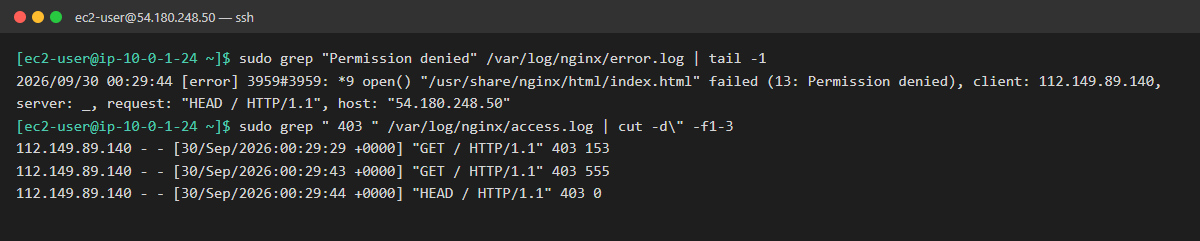
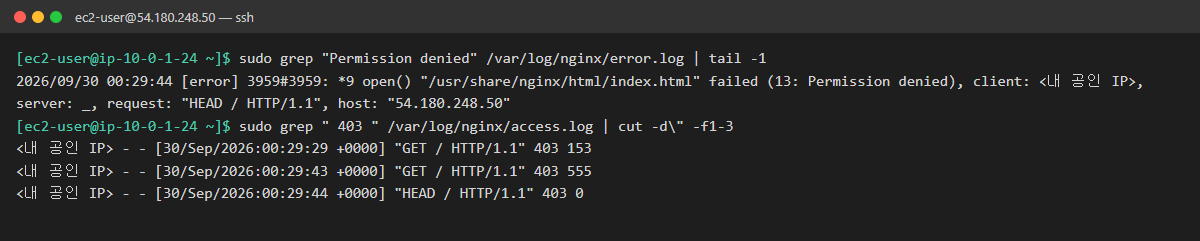
Add troubleshooting scenario 5 and mask public IP in images
- 05: security group drift made outside Terraform, fixed with plan/apply
- Trace change via CloudTrail userAgent; note root access key issue
- Re-render 03 log image with public IP masked
- Update READMEs with scenario 5 and IAM improvement item

Changed region(s): [[0.0, 0.668, 0.5242, 0.8423], [0.0, 0.5809, 0.5242, 0.639], [0.8633, 0.2905, 0.9867, 0.3776]]

diff --git a/troubleshooting/05-network.md b/troubleshooting/05-network.md
@@ -1,0 +1,202 @@
+# 05. 서버는 정상인데 외부에서 접속 불가
+
+| 항목 | 내용 |
+|---|---|
+| 대상 서버 | `linux-ec2` (43.201.85.42, Amazon Linux 2023) |
+| 발생 시각 | 2026-09-30 12:48 KST (CloudTrail 기록 기준) |
+| 영향 | 외부에서 웹사이트 접속 불가 (타임아웃) |
+| 상태 | 🟢 해결 (2026-09-30 14:56 KST, Terraform으로 복구, CloudTrail 기록 기준) |
+
+## 상황
+
+> 고객센터 문의:
+> "홈페이지가 한참 로딩만 하다가 결국 안 열려요."
+>
+> 서버 담당자 답변:
+> "서버 들어가 봤는데 nginx 잘 떠 있고, 서버 안에서 접속하면 200 나와요. **서버는 아무 문제 없어요.**"
+>
+> 보안팀 공지 (오늘 오전):
+> "금일 클라우드 보안 점검을 진행했습니다. 불필요하게 열린 접근 권한을 일부 정리했습니다."
+
+## 증상
+
+**내 PC: 응답 없이 시간 초과**
+
+![외부 접속 타임아웃](images/05-net-local.png)
+
+**서버 안: nginx 정상**
+
+![서버 내부 정상](images/05-net-server.png)
+
+## 목표
+
+- [x] 문제 위치 좁히기: 서버 **안**의 문제인지, 서버 **밖**(네트워크)의 문제인지 증거로 판단
+- [x] 원인 찾기: 무엇이 언제 바뀌었는지
+- [x] 서비스 정상화: 내 PC에서 http://43.201.85.42 가 열려야 함
+- [x] **Terraform으로 복구하기:** AWS 콘솔에서 손으로 되돌리지 말고, 코드와 실제 상태의 차이(drift)를 확인한 뒤 Terraform으로 복구. 콘솔에서 고치면 절반만 성공
+- [x] 재발 방지 정리 (심화)
+
+## 힌트
+
+<details>
+<summary>힌트 1: 2번 장애 때와 에러가 다르다</summary>
+
+2번 시나리오의 캡처(`images/02-config-local.png`)와 비교해 보세요. 그때도 접속이 안 됐지만 에러 메시지와 **실패까지 걸린 시간**이 다릅니다.
+- 금방 실패: 서버까지는 도착했는데 **받아줄 프로그램이 없음**
+- 한참 기다리다 실패: 요청이 **중간 어딘가에서 사라짐**
+</details>
+
+<details>
+<summary>힌트 2: 요청이 지나가는 길 그려보기</summary>
+
+```
+내 PC → 인터넷 → IGW → 보안 그룹 → EC2(리눅스) → nginx
+```
+서버 안에서 `curl localhost`가 되면 **EC2 → nginx** 구간은 정상입니다. SSH(22번)도 되는데 HTTP(80번)만 안 된다면, **포트별로 통과 여부를 정하는 곳**은 어디일까요?
+</details>
+
+<details>
+<summary>힌트 3: 보안 그룹 확인</summary>
+
+AWS 콘솔 → EC2 → 보안 그룹 → `linux-sg` → 인바운드 규칙을 보세요. 또는 CLI로 확인합니다.
+```bash
+aws ec2 describe-security-groups --region ap-northeast-2 --filters Name=group-name,Values=linux-sg --query "SecurityGroups[0].IpPermissions"
+```
+Terraform 코드(`security_group.tf`)와 비교해 보세요.
+</details>
+
+<details>
+<summary>힌트 4: Terraform에게 물어보기</summary>
+
+Terraform은 **코드에 적힌 상태**와 **AWS의 실제 상태**를 비교할 수 있습니다. 아무것도 바꾸지 않고 비교만 하는 명령이 있습니다. 그 결과에 `~`(변경)가 나오면 누군가 Terraform 밖에서 바꿨다는 뜻입니다.
+</details>
+
+<details>
+<summary>힌트 5: 누가 바꿨나 (심화)</summary>
+
+AWS의 모든 API 호출은 **CloudTrail**에 기록됩니다. 콘솔 → CloudTrail → 이벤트 기록에서 이벤트 이름 `RevokeSecurityGroupIngress`로 필터링해 보세요.
+</details>
+
+## 생각해볼 점
+
+- `Connection timed out`과 `Connection refused`는 각각 어느 구간의 문제를 뜻할까요?
+- 보안 그룹에서 막힌 요청에는 왜 "거부" 응답이 오지 않고 타임아웃이 날까요?
+- 콘솔에서 규칙을 손으로 되돌리면 당장은 해결됩니다. 그런데 왜 Terraform으로 복구해야 할까요? 반대로 보안팀의 변경이 **옳은 결정**이었다면 어떻게 해야 할까요?
+
+## 해결 기록
+
+> 캡처 출처
+> - 1단계: 조사하면서 직접 찍은 화면입니다.
+> - 2단계 tcpdump: 장애 중에는 패킷이 **하나도 찍히지 않았습니다.** 그 화면은 남기지 못해서, 비교용으로 **복구 후** 패킷이 도착하는 화면을 찍었습니다.
+> - 3단계 plan: 장애 중에 실제로 실행한 출력입니다. 변경과 관계없는 줄 일부는 생략했습니다.
+> - 4~5단계: 실제 출력을 보기 좋게 정리했습니다.
+> - 공개 저장소라서 내 공인 IP는 `<내 공인 IP>`로 가렸습니다.
+
+### 작성자 기록
+
+| 항목 | 내용 |
+|---|---|
+| **원인** | 보안 점검 중 `linux-sg`의 HTTP(80) 인바운드 규칙이 Terraform 밖(AWS CLI)에서 `0.0.0.0/0` → `203.0.113.0/24`(사무실 대역)으로 바뀜. 외부 요청이 보안 그룹에서 버려져서 타임아웃 발생 |
+| **확인한 명령어** | `Test-NetConnection`으로 22번은 성공, 80번만 실패 확인 → 서버에서 `tcpdump`로 80번 패킷이 도착하지 않음 확인 → `terraform plan`으로 drift(코드와 실제 상태의 차이) 확인 → CloudTrail로 변경 시각과 도구 확인 |
+| **조치 내용** | 코드(`security_group.tf`)는 수정하지 않고 `terraform apply`로 AWS를 코드 상태로 되돌림 → `plan` 재실행으로 `No changes` 확인 |
+| **재발 방지** | ① 정기 drift 감지: CI에서 `terraform plan -detailed-exitcode`를 매일 실행하고 차이가 있으면 알림 ② IAM으로 콘솔, CLI의 보안 그룹 수정 권한을 제한하고 **코드(PR)로만 변경** ③ 보안 정책을 바꿔야 할 때는 되돌리지 말고 코드를 고쳐서 반영 |
+| **배운 점** | 서버 안이 정상이면 **요청이 지나가는 길을 구간별로** 나눠서 확인해야 함. 에러가 없다는 것이 아니라 **패킷이 도착하지 않았다**는 것이 증거. 인프라는 코드와 같아야 하고, `plan`으로 차이를 확인할 수 있음 |
+
+### 1단계. 포트별로 비교하기
+
+```powershell
+Test-NetConnection 43.201.85.42 -Port 22
+Test-NetConnection 43.201.85.42 -Port 80
+```
+
+![1단계: 포트별 연결 테스트](images/05-fix-1-port.png)
+
+- 22번 `TcpTestSucceeded : True`: 서버는 켜져 있고 네트워크로 연결됨
+- 80번 `TCP connect ... failed`: **80번만** 막힘
+- `Ping ... TimedOut`은 **증거가 아닙니다.** 이 보안 그룹은 처음부터 ping(ICMP)을 허용하지 않아서 22번 테스트에서도 ping은 실패합니다.
+
+### 2단계. 요청이 서버에 도착하나?
+
+```bash
+sudo tcpdump -i any -n port 80     # 이 상태로 두고 내 PC에서 접속
+```
+
+| 장애 중 | 복구 후 (아래 캡처) |
+|---|---|
+| 접속해도 **아무 줄도 찍히지 않음** → 요청이 서버에 오기 **전에** 사라짐 | `In` (내 PC → 서버) `Flags [S]`와 `Out` (서버 → 내 PC) `Flags [S.]`가 찍힘 → 요청이 도착하고 서버가 응답함 |
+
+![2단계: tcpdump 비교 (복구 후)](images/05-fix-2-tcpdump.png)
+
+> 💡 `Flags [S]`는 TCP 연결 요청(SYN), `[S.]`는 서버의 수락 응답(SYN-ACK)입니다. 캡처에서는 보기 좋게 연결 시작 패킷만 필터링했습니다.
+
+**지금까지의 증거로 좁힌 결론**
+| 증거 | 결과 | 결론 |
+|---|---|---|
+| 서버 안 `curl localhost` | 200 | nginx 정상 |
+| 22번 연결 | 성공 | 서버, IGW, 라우팅 정상 |
+| 80번 연결 | 실패 (타임아웃) | 80번만 막힘 |
+| `tcpdump port 80` | 패킷 없음 | 서버에 도착하기 **전** |
+
+→ **서버 밖**에서 **포트별로** 통과를 정하는 곳, 즉 **보안 그룹**을 의심합니다.
+
+### 3단계. Terraform으로 drift 확인
+
+```powershell
+cd c:\aws-lab\terraform
+terraform plan
+```
+
+![3단계: drift 확인](images/05-fix-3-plan.png)
+
+| 기호 | 뜻 | 이번 결과 |
+|---|---|---|
+| `-` | AWS에는 있지만 코드에는 없음 → apply하면 **삭제** | `203.0.113.0/24` (security audit) |
+| `+` | 코드에는 있지만 AWS에 없음 → apply하면 **추가** | `0.0.0.0/0` (HTTP) |
+| `# (1 unchanged element hidden)` | 변경 없음 | SSH 22번 규칙 |
+
+`plan`은 아무것도 바꾸지 않고 **비교만** 합니다. 누가 Terraform 밖에서 바꾼 게 있으면 이렇게 드러납니다.
+
+### 4단계. Terraform으로 복구
+
+```powershell
+terraform apply      # 변경 목록이 plan과 같은지 확인 후 yes
+terraform plan       # No changes 확인
+```
+
+![4단계: 복구 확인](images/05-fix-4-verify.png)
+
+- 80번 `0.0.0.0/0` 복구, 22번은 그대로
+- 외부 접속 **HTTP 200**, 0.02초 (장애 중에는 20초 타임아웃)
+- `No changes. Your infrastructure matches the configuration.` → 코드와 실제가 다시 일치
+
+**코드를 한 줄도 고치지 않았습니다.** 코드에는 이미 "80번은 `0.0.0.0/0`"이라는 **원하는 상태**가 적혀 있고, Terraform은 실제 상태를 거기에 맞춥니다(선언형).
+
+### 5단계. 누가, 언제 바꿨나 (CloudTrail)
+
+```powershell
+aws cloudtrail lookup-events --lookup-attributes AttributeKey=EventName,AttributeValue=RevokeSecurityGroupIngress
+aws cloudtrail lookup-events --lookup-attributes AttributeKey=EventName,AttributeValue=AuthorizeSecurityGroupIngress
+```
+
+![5단계: CloudTrail](images/05-fix-5-cloudtrail.png)
+
+- **12:44** Terraform(`HashiCorp Terraform`)이 apply로 규칙 생성
+- **12:48:05** `aws-cli`로 `0.0.0.0/0` 삭제(Revoke) → 장애 시작 시각
+- **12:48:07** `aws-cli`로 `203.0.113.0/24` 추가(Authorize)
+- **14:56:43** Terraform이 `203.0.113.0/24` 삭제 → 복구 시각 (캡처 이후에 CloudTrail에 반영되어 이미지에는 없음)
+- **UserAgent**를 보면 Terraform으로 바꿨는지, 사람이 CLI나 콘솔로 바꿨는지 구분됩니다.
+
+> ⚠ **발견한 보안 문제:** 모든 작업의 사용자가 `root`입니다. root 계정의 액세스 키를 쓰고 있어서 **누가 바꿨는지 사람 단위로 구분할 수 없습니다.** 실무라면 IAM 사용자나 IAM Identity Center(SSO)로 사람마다 계정을 나누고, root 액세스 키는 삭제해야 합니다. 이 저장소의 개선 과제로 남깁니다.
+
+> 이 실습에서 12:48의 변경은 보안팀 역할로 Claude Code가 AWS CLI로 재현한 것입니다.
+
+### 생각해볼 점: 답
+
+- **timeout vs refused:**
+  | 에러 | 뜻 | 이번 실습 |
+  |---|---|---|
+  | `Connection refused` (금방 실패) | 서버에 **도착했지만** 그 포트에 프로그램이 없음 → 서버가 "거부" 응답 | 2번: nginx가 꺼져 있었음 (2초 만에 실패) |
+  | `Connection timed out` (한참 뒤 실패) | 요청이 **중간에서 버려짐**, 응답이 오지 않음 | 5번: 보안 그룹에서 차단 (20초 뒤 실패) |
+- **보안 그룹은 왜 거부 응답을 안 보내나:** 보안 그룹은 허용 목록(allow)만 있고, 목록에 없는 요청은 **조용히 버립니다(drop).** 거부 응답을 보내면 공격자에게 "여기 서버가 있다"는 정보를 주게 되기 때문입니다.
+- **왜 Terraform으로 복구해야 하나:** 콘솔에서 손으로 고치면 당장은 해결되지만, 어떤 값이 정답인지 기준이 사라집니다. 코드가 **유일한 기준(Single Source of Truth)**이어야, 누가 무엇을 언제 바꿨는지 Git 기록으로 남고, 다음 apply 때 설정이 뜻하지 않게 되돌아가는 일이 없습니다.
+- **보안팀 변경이 옳았다면:** 되돌리면 안 됩니다. `security_group.tf`의 80번 `cidr_blocks`를 새 정책에 맞게 **코드로 수정** → PR, 리뷰 → `plan` → `apply` 순서로 반영합니다. 결과는 같아도 **변경 경로가 코드를 거치는 것**이 핵심입니다.

diff --git a/README.md b/README.md
@@ -77,6 +77,7 @@ Linux EC2에 장애를 일부러 발생시키고, **증상만 보고** 원인을
 | 2 | [설정 변경 후 웹사이트 접속 불가](troubleshooting/02-config-syntax.md) | nginx 설정 `;` 누락 + 검사 없이 restart | `journalctl`, `nginx -t`, `reload` vs `restart` |
 | 3 | [배포 후 403 Forbidden](troubleshooting/03-permission.md) | `mv`로 600 권한이 그대로 따라옴 | error/access log, `ls -l`, `ps`, `install` |
 | 4 | [야간 점검 후 홈페이지가 이상한 페이지로 바뀜](troubleshooting/04-port-conflict.md) | 다른 웹 서버(Apache)가 80번 포트 선점 | `ss -tlnp`, `dnf history`, `systemctl disable`, 재부팅 검증 |
+| 5 | [서버는 정상인데 외부에서 접속 불가](troubleshooting/05-network.md) | 보안 그룹을 Terraform 밖에서 수정 (drift) | `Test-NetConnection`, `tcpdump`, `terraform plan/apply`, CloudTrail |
 
 전체 목록과 진행 방법: [troubleshooting/README.md](troubleshooting/README.md)
 
@@ -135,4 +136,5 @@ terraform destroy
 - [ ] Ansible로 nginx 구성 자동화 (`validate: nginx -t -c %s` 적용)
 - [ ] CloudWatch Agent와 디스크 사용률 알람 (장애 #1 재발 방지)
 - [ ] GitHub Actions로 `terraform fmt`, `validate`, `plan` 자동 실행
-- [ ] 장애 대응 실습 5~6 (네트워크와 서비스 구분, 재부팅 후 미기동)
+- [ ] 장애 대응 실습 6 (재부팅 후 서비스 미기동)
+- [ ] root 액세스 키 대신 IAM 사용자 / IAM Identity Center 사용 (장애 #5에서 발견)

diff --git a/troubleshooting/README.md b/troubleshooting/README.md
@@ -22,5 +22,5 @@
 | 2 | [설정 파일 문법 오류](02-config-syntax.md) | 🟢 해결 |
 | 3 | [권한 문제 (403 Forbidden)](03-permission.md) | 🟢 해결 |
 | 4 | [포트 충돌](04-port-conflict.md) | 🟢 해결 |
-| 5 | 접속 불가 (네트워크 vs 서비스) | ⏳ 대기 |
+| 5 | [접속 불가 (네트워크 vs 서비스)](05-network.md) | 🟢 해결 |
 | 6 | 재부팅 후 서비스 미기동 | ⏳ 대기 |
